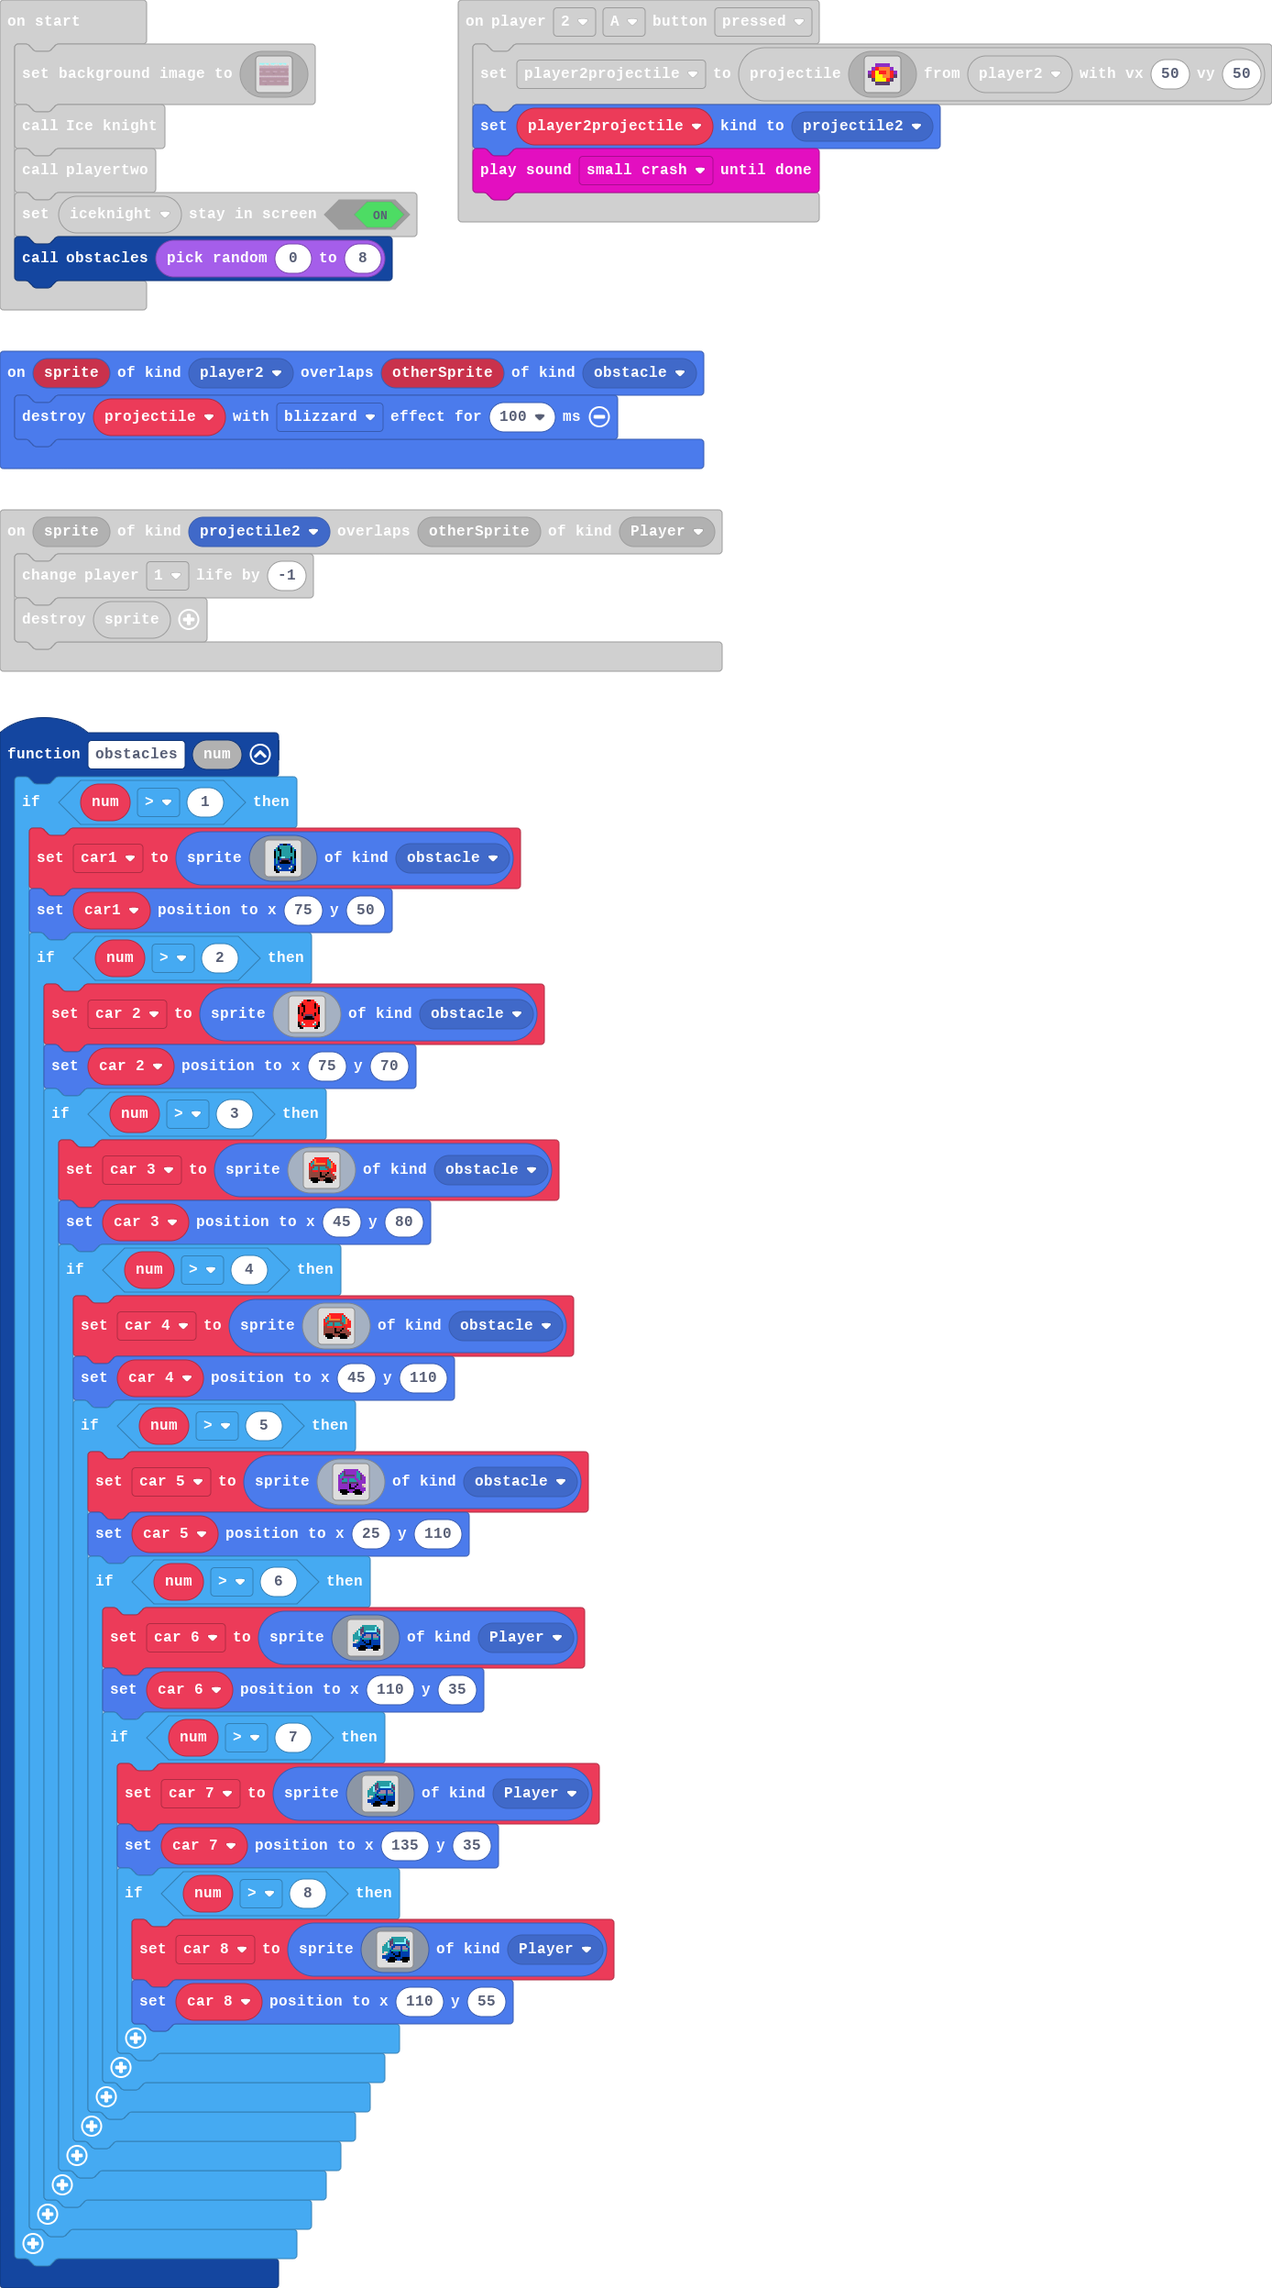
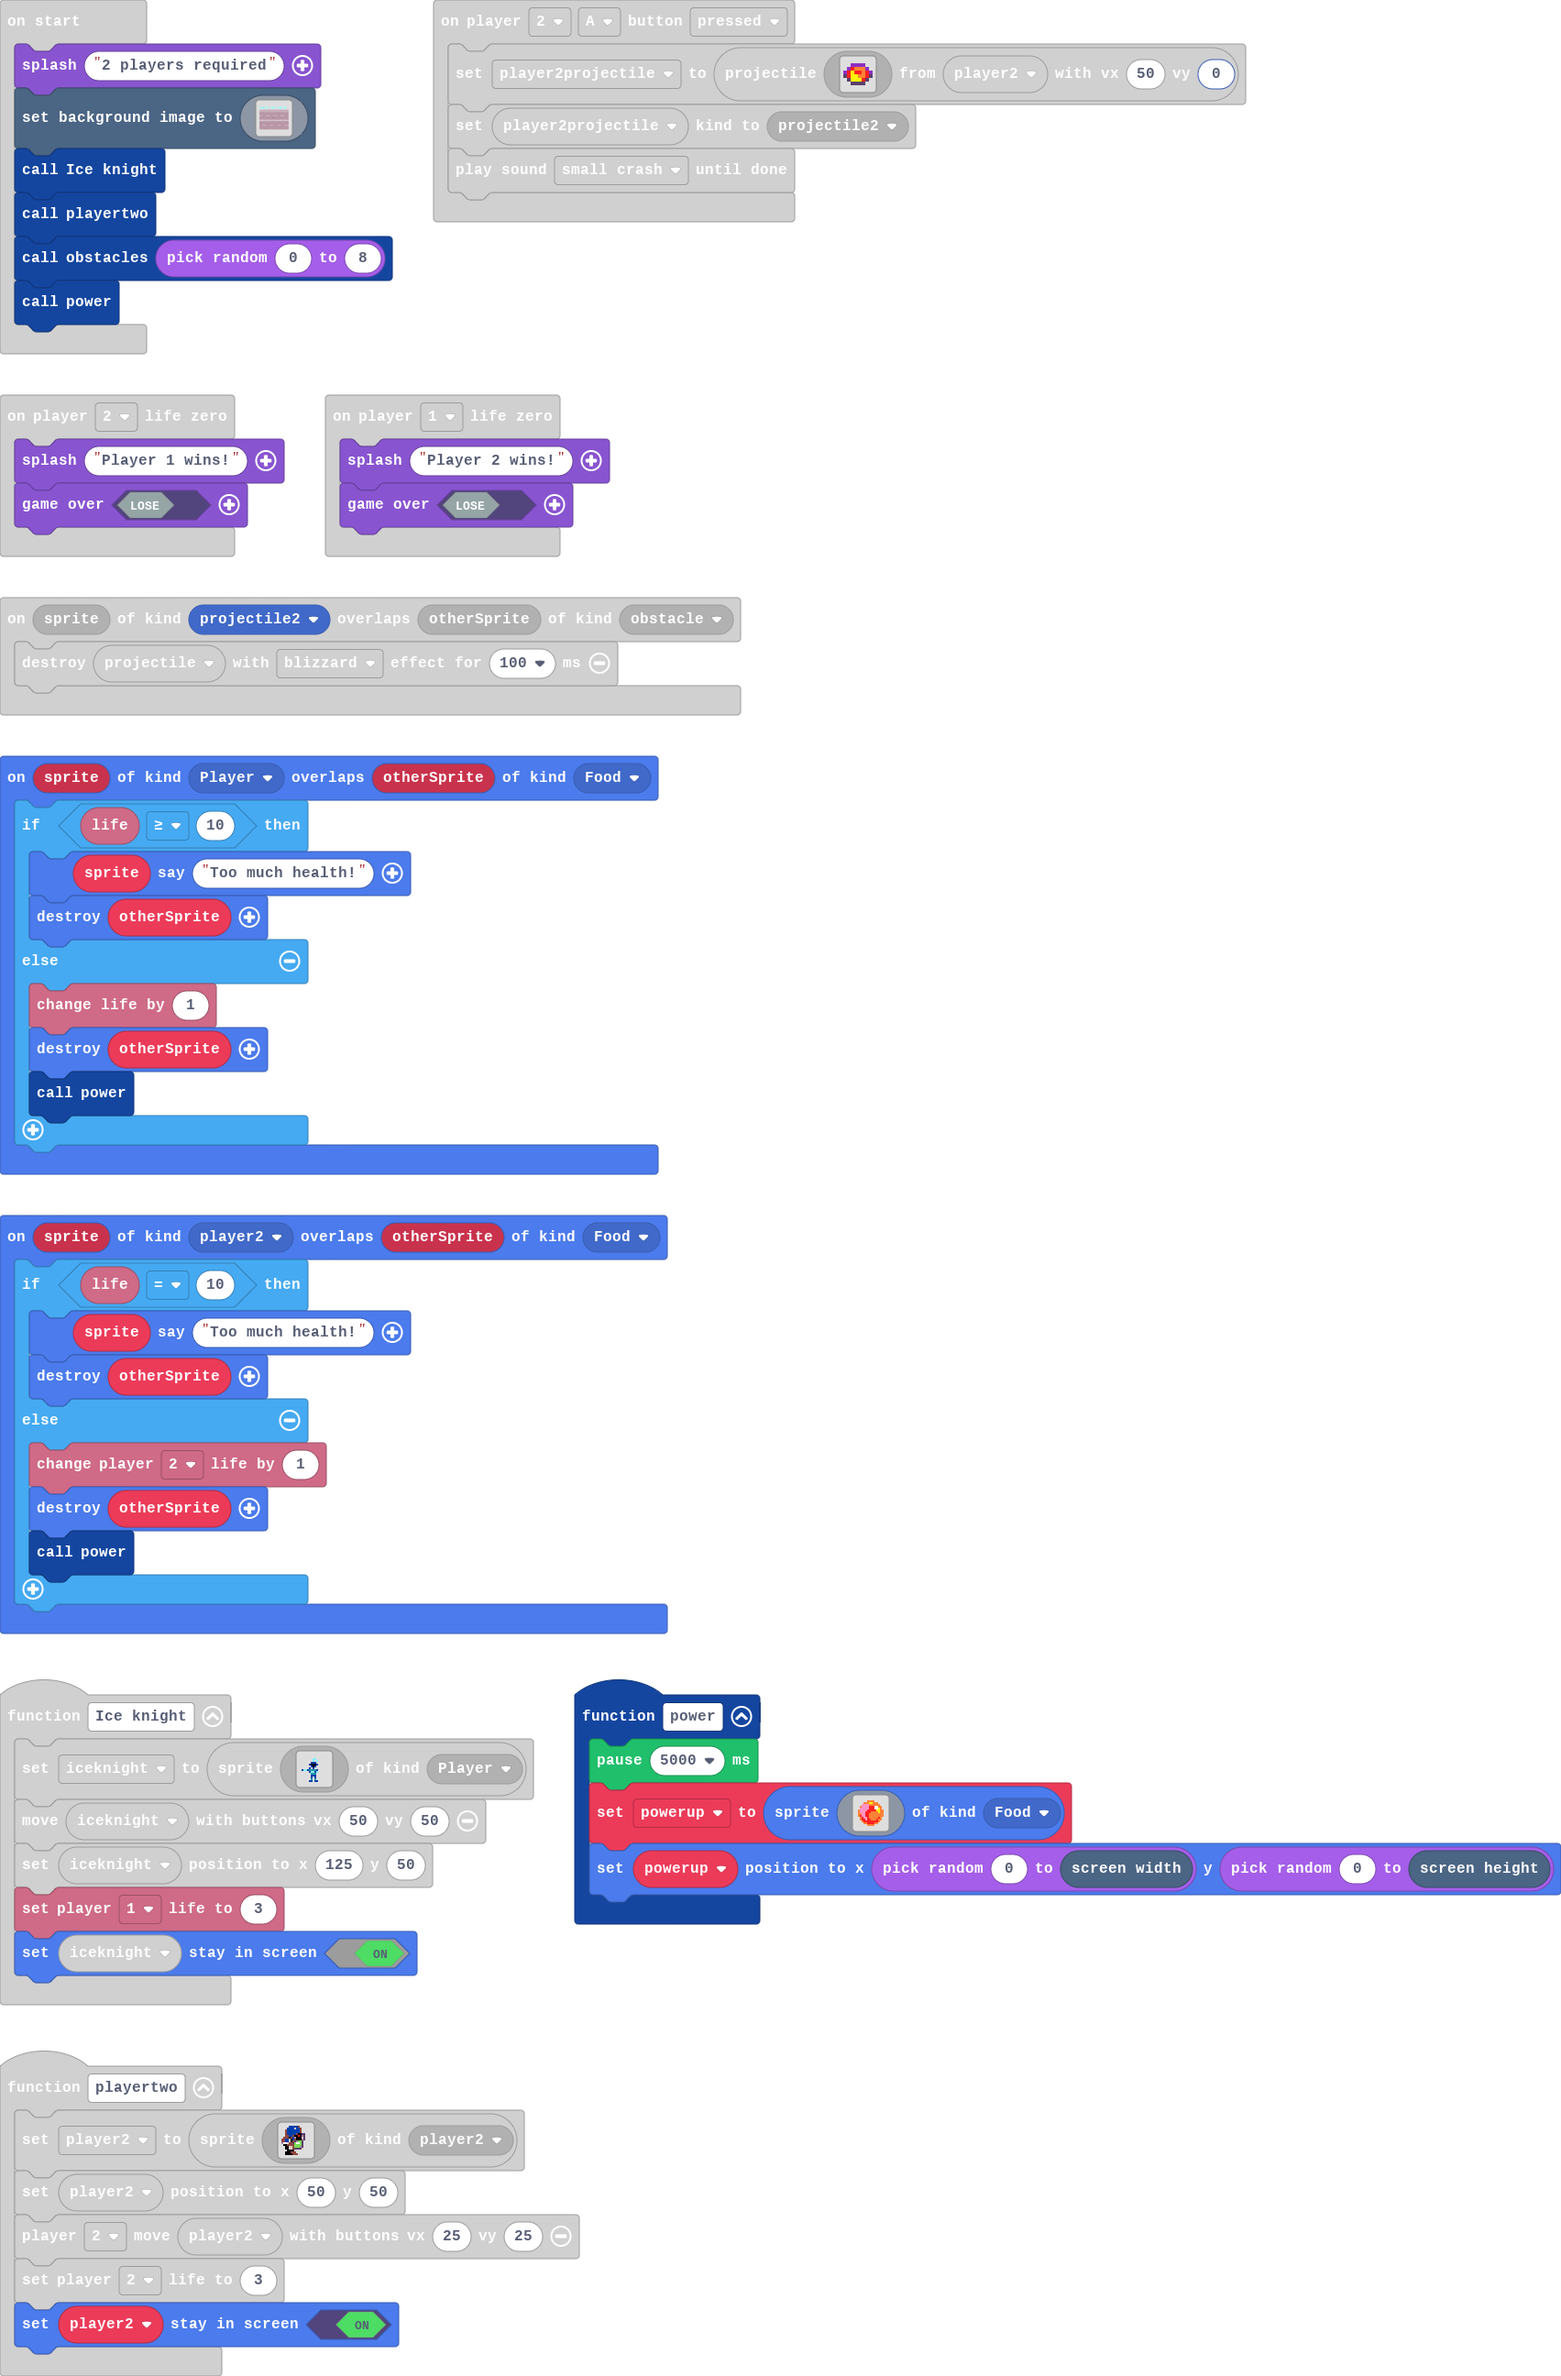
Update main.blocks, main.ts

diff --git a/main.ts b/main.ts
@@ -3,6 +3,28 @@ namespace SpriteKind {
     export const player2 = SpriteKind.create()
     export const projectile2 = SpriteKind.create()
 }
+function power2 () {
+    pause(5000)
+    powerup = sprites.create(img`
+        . . . . . . . . . . . . . . . . 
+        . . . . . . 4 4 4 4 . . . . . . 
+        . . . . 4 4 4 5 5 4 4 4 . . . . 
+        . . . 3 3 3 3 4 4 4 4 4 4 . . . 
+        . . 4 3 3 3 3 2 2 2 1 1 4 4 . . 
+        . . 3 3 3 3 3 2 2 2 1 1 5 4 . . 
+        . 4 3 3 3 3 2 2 2 2 2 5 5 4 4 . 
+        . 4 3 3 3 2 2 2 4 4 4 4 5 4 4 . 
+        . 4 4 3 3 2 2 4 4 4 4 4 4 4 4 . 
+        . 4 2 3 3 2 2 4 4 4 4 4 4 4 4 . 
+        . . 4 2 3 3 2 4 4 4 4 4 2 4 . . 
+        . . 4 2 2 3 2 2 4 4 4 2 4 4 . . 
+        . . . 4 2 2 2 2 2 2 2 2 4 . . . 
+        . . . . 4 4 2 2 2 2 4 4 . . . . 
+        . . . . . . 4 4 4 4 . . . . . . 
+        . . . . . . . . . . . . . . . . 
+        `, SpriteKind.Food)
+    powerup.setPosition(randint(0, scene.screenWidth()), randint(0, scene.screenHeight()))
+}
 function playertwo () {
     player2 = sprites.create(img`
         . . . . 8 8 8 8 8 e . . . . . . 
@@ -25,7 +47,11 @@ function playertwo () {
     player2.setPosition(50, 50)
     controller.player2.moveSprite(player2, 25, 25)
     info.player2.setLife(3)
+    player2.setStayInScreen(true)
 }
+sprites.onOverlap(SpriteKind.projectile2, SpriteKind.obstacle, function (sprite, otherSprite) {
+    projectile.destroy(effects.blizzard, 100)
+})
 controller.A.onEvent(ControllerButtonEvent.Pressed, function () {
     projectile = sprites.createProjectileFromSprite(img`
         . . . . . . . . . . . . . . . . 
@@ -55,9 +81,19 @@ controller.player2.onButtonEvent(ControllerButton.A, ControllerButtonEvent.Press
         c 2 5 5 4 4 2 c 
         . c 5 5 5 2 c . 
         . . c c c c . . 
-        `, player2, 50, 50)
+        `, player2, 50, 0)
     player2projectile.setKind(SpriteKind.projectile2)
     music.smallCrash.playUntilDone()
+})
+sprites.onOverlap(SpriteKind.player2, SpriteKind.Food, function (sprite, otherSprite) {
+    if (info.life() == 10) {
+        sprite.sayText("Too much health!")
+        otherSprite.destroy()
+    } else {
+        info.player2.changeLifeBy(1)
+        otherSprite.destroy()
+        power2()
+    }
 })
 sprites.onOverlap(SpriteKind.Projectile, SpriteKind.obstacle, function (sprite, otherSprite) {
     projectile.destroy(effects.blizzard, 100)
@@ -84,18 +120,28 @@ function Ice_knight () {
     controller.moveSprite(iceknight, 50, 50)
     iceknight.setPosition(125, 50)
     info.player1.setLife(3)
+    iceknight.setStayInScreen(true)
 }
-sprites.onOverlap(SpriteKind.player2, SpriteKind.obstacle, function (sprite, otherSprite) {
-    projectile.destroy(effects.blizzard, 100)
-})
 sprites.onOverlap(SpriteKind.projectile2, SpriteKind.Player, function (sprite, otherSprite) {
     info.player1.changeLifeBy(-1)
     sprite.destroy()
 })
+sprites.onOverlap(SpriteKind.Player, SpriteKind.Food, function (sprite, otherSprite) {
+    if (info.life() >= 10) {
+        sprite.sayText("Too much health!")
+        otherSprite.destroy()
+    } else {
+        info.changeLifeBy(1)
+        otherSprite.destroy()
+        power2()
+    }
+})
 info.player1.onLifeZero(function () {
+    game.splash("Player 2 wins!")
     game.over(false)
 })
 info.player2.onLifeZero(function () {
+    game.splash("Player 1 wins!")
     game.over(false)
 })
 function obstacles (num: number) {
@@ -281,9 +327,11 @@ let car_3: Sprite = null
 let car_2: Sprite = null
 let car1: Sprite = null
 let player2projectile: Sprite = null
+let iceknight: Sprite = null
 let projectile: Sprite = null
 let player2: Sprite = null
-let iceknight: Sprite = null
+let powerup: Sprite = null
+game.splash("2 players required")
 scene.setBackgroundImage(img`
     9999999999999999999999999999999999999999999999999999999999999999999999999999999999999999999999999999999999999999999999999999999999999999999999999999999999999999
     9999999999999999999999999999999999999999999999999999111111111119999999999999999999999999999999999999991111999999999999999999999999999999999999999999111111111111
@@ -408,5 +456,5 @@ scene.setBackgroundImage(img`
     `)
 Ice_knight()
 playertwo()
-iceknight.setStayInScreen(true)
 obstacles(randint(0, 8))
+power2()
